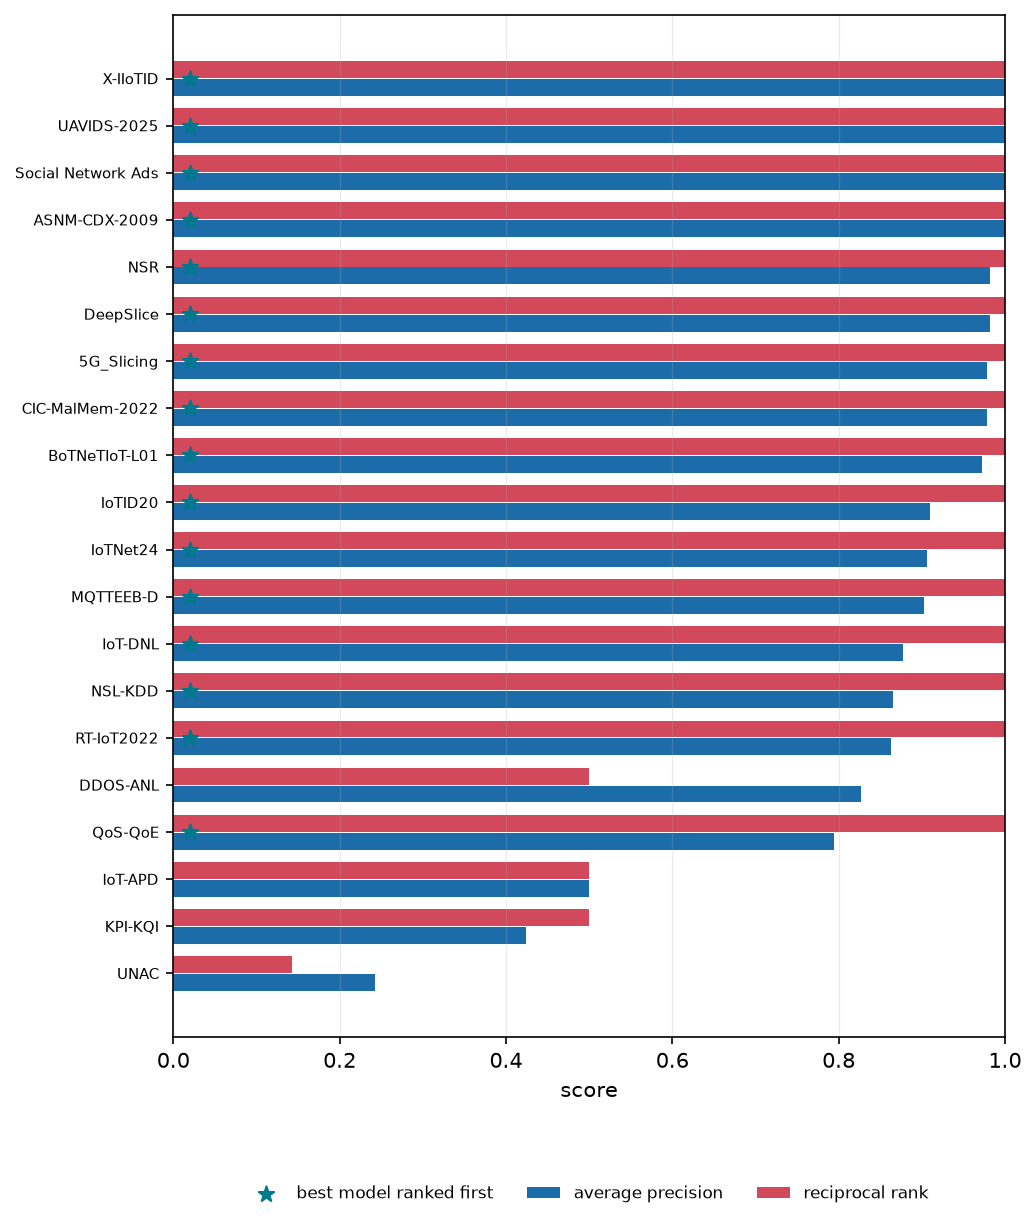
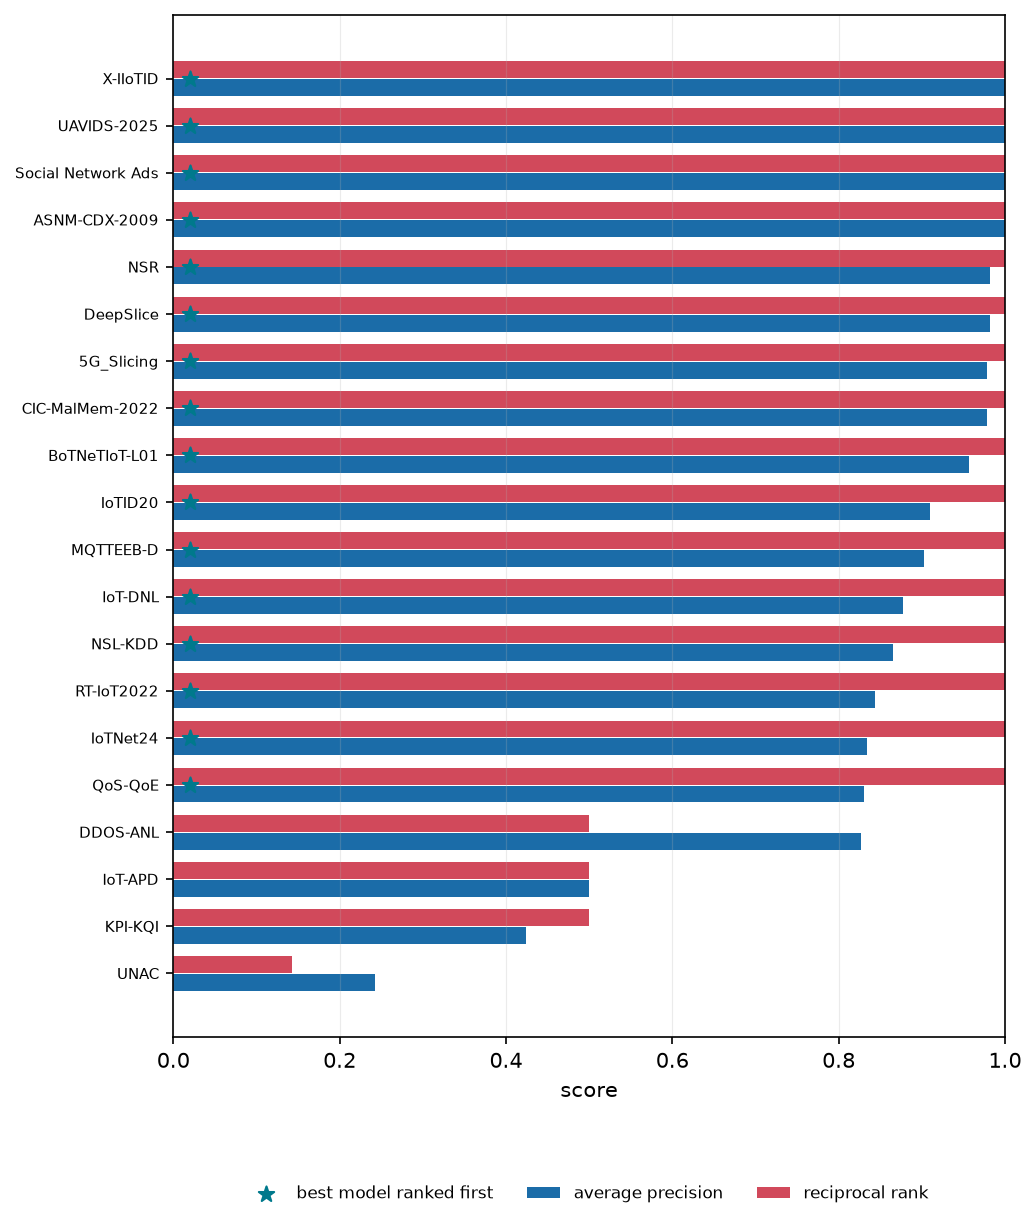
Score the ranking evaluation out of fold, and match protocols across predictors
`model_selection` scored the all-data equation on the rows it was fitted
on, under a docstring asking "can the equation pick a good model for a
dataset it has never seen?". It had seen them. Worse, `ranking_baselines`
compared that in-sample equation against per-model centres computed
leave-one-out, so the equation was given an advantage the baselines were
denied -- and the claim that E3 leads the mean baseline on every
head-weighted metric came off that table.

Both baseline tables now score every predictor under a stated protocol,
and the equation appears under all three, so the cost of generalisation
on these tasks is measured rather than assumed:

  ranking          AP     MRR   hit@1  regret
  in-sample      0.850   0.882   0.80   0.015
  loo-dataset    0.847   0.882   0.80   0.015
  loo-model      0.838   0.907   0.85   0.008

  decision @0.7   acc     F1     MCC
  in-sample      0.872   0.900   0.730
  loo-dataset    0.868   0.897   0.719
  loo-model      0.855   0.886   0.695

The ranking cost is near zero, and structurally so rather than by luck: a
ranking depends only on the within-dataset ordering, and the dataset-side
terms shift every model on a dataset by the same amount, so holding a
dataset out moves the level and not the order. Worth stating, because it
is why ranking is nearly protocol-insensitive while R2 drops 0.658 to
0.638 over the same fold.

Also fixes `_fixed_form_path`, which built its library from all six model
[…]

diff --git a/src/ml_meta_perf/experiment.py b/src/ml_meta_perf/experiment.py
@@ -280,6 +280,7 @@ def _fixed_form_path(
     labels: np.ndarray,
     config: Configuration,
     library: Library | None = None,
+    model_features: tuple[str, ...] = EQUATION_MODEL_FEATURES,
 ) -> tuple[dict[int, CrossValidation], Library]:
     """Fit once, then cross-validate the resulting forms with only their weights refit.
 
@@ -291,7 +292,7 @@ def _fixed_form_path(
     if library is None:
         library = build_library(
             DATASET_FEATURES,
-            MODEL_FEATURES,
+            model_features,
             columns,
             max_arity=config.max_arity,
             max_abs_zscore=config.max_abs_zscore,
@@ -714,40 +715,83 @@ def length_comparison(frame: pl.DataFrame, e3: EquationReport, config: Configura
     return pl.DataFrame(rows)
 
 
-def model_selection(frame: pl.DataFrame, e3: EquationReport) -> pl.DataFrame:
-    """Can the equation pick a good model for a dataset it has never seen?"""
-    columns = columns_as_arrays(frame, DATASET_FEATURES + MODEL_FEATURES)
+def _e3_predictions(
+    frame: pl.DataFrame, e3: EquationReport, protocol: str, config: Configuration
+) -> np.ndarray | None:
+    """E3's predictions under one protocol: ``in_sample``, ``loo_dataset`` or ``loo_model``."""
+    if protocol == "in_sample":
+        columns = columns_as_arrays(frame, DATASET_FEATURES + EQUATION_MODEL_FEATURES)
+        return e3.equation.predict(columns)
+    path = e3.paths.get(protocol)
+    if not path:
+        return None
+    size = min(config.headline_terms, max(path))
+    return path[size].predictions if size in path else None
+
+
+def model_selection(
+    frame: pl.DataFrame,
+    e3: EquationReport,
+    protocol: str = "loo_dataset",
+    config: Configuration = DEFAULT_E3,
+) -> pl.DataFrame:
+    """Can the equation pick a good model for a dataset it has never seen?
+
+    **Scored out of fold, which the question requires.** This used to score the all-data
+    equation on the rows it was fitted on while the baselines it is compared against were
+    computed leave-one-out -- so the equation was being given an advantage they were denied,
+    and the question in this docstring was not the one being answered.
+
+    The cost of generalisation is small here and the reason is structural rather than lucky:
+    a ranking depends only on the *within-dataset* ordering of models, and the dataset-side
+    terms shift every model on a dataset by the same amount. Holding a dataset out moves the
+    level, not the order. `ranking_baselines` reports both protocols side by side so that
+    stays visible rather than assumed.
+    """
     truth = target(frame)
     datasets = groups(frame, DATASET_COLUMN)
-    return ranking_report(truth, e3.equation.predict(columns), datasets)
+    prediction = _e3_predictions(frame, e3, protocol, config)
+    if prediction is None:
+        return pl.DataFrame()
+    return ranking_report(truth, prediction, datasets)
 
 
-def ranking_baselines(frame: pl.DataFrame, e3: EquationReport) -> pl.DataFrame:
+def ranking_baselines(
+    frame: pl.DataFrame, e3: EquationReport, config: Configuration = DEFAULT_E3
+) -> pl.DataFrame:
     """The equation's ranking against the trivial rankings, averaged over datasets.
 
-    A ranking is only interesting relative to the obvious alternative, which here is "order
-    the models by how well they usually do". Both centres are reported for the same reason
-    the error metrics report both: the per-model mean and the per-model median are different
-    orderings, and which is harder to beat is a question rather than an assumption.
+    **Every predictor is scored under the same protocol**, which is what makes the comparison
+    a comparison. The equation appears three times -- in-sample and under both leave-one-group-out
+    protocols -- so the cost of generalisation on this task is visible rather than assumed, and
+    the trivial predictors appear leave-one-dataset-out, which is the only way a per-model
+    centre can be computed honestly.
 
-    Both baselines are computed leave-one-dataset-out, so the model ordering a fold is scored
-    against never saw that fold's rows.
+    Both centres are reported for the same reason the error metrics report both: the per-model
+    mean and the per-model median are different orderings, and which is harder to beat is a
+    question rather than an assumption.
     """
-    columns = columns_as_arrays(frame, DATASET_FEATURES + MODEL_FEATURES)
     truth = target(frame)
     datasets = groups(frame, DATASET_COLUMN)
     models = groups(frame, MODEL_COLUMN)
 
-    candidates = {
-        "equation (E3)": e3.equation.predict(columns),
-        "per-model mean": baseline_group_centre(truth, datasets, models, centre="mean"),
-        "per-model median": baseline_group_centre(truth, datasets, models, centre="median"),
-    }
+    candidates: dict[str, np.ndarray] = {}
+    for label, protocol in (
+        ("equation (in-sample)", "in_sample"),
+        ("equation (loo-dataset)", "loo_dataset"),
+        ("equation (loo-model)", "loo_model"),
+    ):
+        prediction = _e3_predictions(frame, e3, protocol, config)
+        if prediction is not None:
+            candidates[label] = prediction
+    candidates["per-model mean (loo-dataset)"] = baseline_group_centre(truth, datasets, models, centre="mean")
+    candidates["per-model median (loo-dataset)"] = baseline_group_centre(truth, datasets, models, centre="median")
+
     tables = {
         label: ranking_report(truth, prediction, datasets).sort("group")
         for label, prediction in candidates.items()
     }
-    reference = tables["equation (E3)"]
+    reference = tables["equation (loo-dataset)"] if "equation (loo-dataset)" in tables else next(iter(tables.values()))
 
     rows: list[dict[str, object]] = []
     for label, table in tables.items():
@@ -762,10 +806,9 @@ def ranking_baselines(frame: pl.DataFrame, e3: EquationReport) -> pl.DataFrame:
         }
         # The mean over twenty datasets is not the comparison. hit@1 moves only in steps of
         # 0.05 on twenty folds, so a single dataset flipping its top pick shifts it by more
-        # than the gaps being read; and a difference of two means over twenty groups has
-        # already produced three wrong conclusions in this study. The paired test against the
-        # equation is what licenses any claim from this table.
-        if label != "equation (E3)" and "ap" in table.columns:
+        # than the gaps being read. The paired test against the reported equation is what
+        # licenses any claim from this table.
+        if label != "equation (loo-dataset)" and "ap" in table.columns:
             paired = paired_comparison(reference["ap"].to_numpy(), table["ap"].to_numpy())
             row["ap_vs_e3_p"] = paired.p_value
             row["ap_vs_e3_significant"] = paired.significant
@@ -777,28 +820,38 @@ def decision_baselines(
     frame: pl.DataFrame,
     config: Configuration = DEFAULT_E3,
     known: dict[int, CrossValidation] | None = None,
+    e3: EquationReport | None = None,
 ) -> pl.DataFrame:
-    """The above-or-below-threshold decision, for the equation and for both trivial centres.
+    """The above-or-below-threshold decision, for the equation and both trivial centres.
 
-    `decision_report` already carries a majority-class column, which is the floor any rule
-    has to clear. These are the harder comparison: a predictor that answers "how well does
-    this model usually do", thresholded the same way. As with the error metrics, mean and
-    median are different predictors and both are reported.
+    Every predictor under the same protocol, as in `ranking_baselines`, and the equation under
+    all three so the cost of generalisation on the decision is measured rather than assumed.
+    `decision_report` already carries a majority-class column, which is the floor any rule has
+    to clear; these are the harder comparison.
     """
-    columns = columns_as_arrays(frame, DATASET_FEATURES + MODEL_FEATURES)
+    columns = columns_as_arrays(frame, DATASET_FEATURES + EQUATION_MODEL_FEATURES)
     truth = target(frame)
     datasets = groups(frame, DATASET_COLUMN)
     models = groups(frame, MODEL_COLUMN)
 
-    path = known
-    if path is None or config.headline_terms not in path:
-        path, _ = _fixed_form_path(columns, truth, datasets, config)
+    candidates: dict[str, np.ndarray] = {}
+    if e3 is not None:
+        for label, protocol in (
+            ("equation (in-sample)", "in_sample"),
+            ("equation (loo-dataset)", "loo_dataset"),
+            ("equation (loo-model)", "loo_model"),
+        ):
+            prediction = _e3_predictions(frame, e3, protocol, config)
+            if prediction is not None:
+                candidates[label] = prediction
+    else:
+        path = known
+        if path is None or config.headline_terms not in path:
+            path, _ = _fixed_form_path(columns, truth, datasets, config)
+        candidates["equation (loo-dataset)"] = path[config.headline_terms].predictions
+    candidates["per-model mean (loo-dataset)"] = baseline_group_centre(truth, datasets, models, centre="mean")
+    candidates["per-model median (loo-dataset)"] = baseline_group_centre(truth, datasets, models, centre="median")
 
-    candidates = {
-        "equation (E3)": path[config.headline_terms].predictions,
-        "per-model mean": baseline_group_centre(truth, datasets, models, centre="mean"),
-        "per-model median": baseline_group_centre(truth, datasets, models, centre="median"),
-    }
     rows: list[dict[str, object]] = []
     for label, prediction in candidates.items():
         for row in decision_report(truth, prediction, datasets).to_dicts():
@@ -891,10 +944,10 @@ def run(
         baselines=baselines(frame),
         comparison=comparison(frame, e1, e3, e2, e3_capability),
         leakage=leakage_demonstration(frame, config_e3, e3.paths),
-        selection=model_selection(frame, e3),
+        selection=model_selection(frame, e3, "loo_dataset", config_e3),
         decision=decision_quality(frame, config_e3, e3.paths.get("loo_dataset")),
-        ranking_baselines=ranking_baselines(frame, e3),
-        decision_baselines=decision_baselines(frame, config_e3, e3.paths.get("loo_dataset")),
+        ranking_baselines=ranking_baselines(frame, e3, config_e3),
+        decision_baselines=decision_baselines(frame, config_e3, e3.paths.get("loo_dataset"), e3),
         term_choice=recommend(e3.curve, published=len(e3.equation.terms)),
         length_choice=length_comparison(frame, e3, config_e3),
         pareto=pareto_table(e3.curve),

diff --git a/assets/docs/05-evaluation.md b/assets/docs/05-evaluation.md
@@ -414,21 +414,31 @@ R² is the wrong question for a practitioner, who asks whether a model will work
 
 | predictor | threshold | accuracy | majority | precision | recall | mcc | f1 | map | n_positive |
 |---|---|---|---|---|---|---|---|---|---|
-| equation (E3) | 0.5000 | 0.8950 | 0.7668 | 0.9178 | 0.9479 | 0.6967 | 0.9326 | 0.9738 | 365 |
-| equation (E3) | 0.6000 | 0.8887 | 0.7332 | 0.9205 | 0.9284 | 0.7133 | 0.9244 | 0.9763 | 349 |
-| equation (E3) | 0.7000 | 0.8676 | 0.6681 | 0.9381 | 0.8585 | 0.7193 | 0.8966 | 0.9480 | 318 |
-| equation (E3) | 0.8000 | 0.8109 | 0.6261 | 0.9444 | 0.7416 | 0.6471 | 0.8308 | 0.9492 | 298 |
-| equation (E3) | 0.9000 | 0.7584 | 0.5084 | 0.9205 | 0.5744 | 0.5619 | 0.7074 | 0.9123 | 242 |
-| per-model mean | 0.5000 | 0.7395 | 0.7668 | 0.8005 | 0.8795 | 0.1842 | 0.8381 | 0.9788 | 365 |
-| per-model mean | 0.6000 | 0.6828 | 0.7332 | 0.8113 | 0.7393 | 0.2506 | 0.7736 | 0.9567 | 349 |
-| per-model mean | 0.7000 | 0.7227 | 0.6681 | 0.8550 | 0.7044 | 0.4391 | 0.7724 | 0.9645 | 318 |
-| per-model mean | 0.8000 | 0.7122 | 0.6261 | 0.8368 | 0.6711 | 0.4374 | 0.7449 | 0.9332 | 298 |
-| per-model mean | 0.9000 | 0.6450 | 0.5084 | 0.7744 | 0.4256 | 0.3314 | 0.5493 | 0.9408 | 242 |
-| per-model median | 0.5000 | 0.7206 | 0.7668 | 0.7829 | 0.8795 | 0.0950 | 0.8284 | 0.9779 | 365 |
-| per-model median | 0.6000 | 0.7416 | 0.7332 | 0.8038 | 0.8567 | 0.3018 | 0.8294 | 0.9432 | 349 |
-| per-model median | 0.7000 | 0.6933 | 0.6681 | 0.7671 | 0.7767 | 0.3040 | 0.7719 | 0.9636 | 318 |
-| per-model median | 0.8000 | 0.7437 | 0.6261 | 0.8121 | 0.7685 | 0.4635 | 0.7897 | 0.9301 | 298 |
-| per-model median | 0.9000 | 0.6933 | 0.5084 | 0.6967 | 0.7025 | 0.3863 | 0.6996 | 0.9368 | 242 |
+| equation (in-sample) | 0.5000 | 0.8929 | 0.7668 | 0.9153 | 0.9479 | 0.6899 | 0.9314 | 0.9753 | 365 |
+| equation (in-sample) | 0.6000 | 0.8908 | 0.7332 | 0.9231 | 0.9284 | 0.7194 | 0.9257 | 0.9779 | 349 |
+| equation (in-sample) | 0.7000 | 0.8718 | 0.6681 | 0.9446 | 0.8585 | 0.7301 | 0.8995 | 0.9501 | 318 |
+| equation (in-sample) | 0.8000 | 0.8088 | 0.6261 | 0.9442 | 0.7383 | 0.6439 | 0.8286 | 0.9510 | 298 |
+| equation (in-sample) | 0.9000 | 0.7773 | 0.5084 | 0.9533 | 0.5909 | 0.6037 | 0.7296 | 0.9149 | 242 |
+| equation (loo-dataset) | 0.5000 | 0.8950 | 0.7668 | 0.9178 | 0.9479 | 0.6967 | 0.9326 | 0.9738 | 365 |
+| equation (loo-dataset) | 0.6000 | 0.8887 | 0.7332 | 0.9205 | 0.9284 | 0.7133 | 0.9244 | 0.9763 | 349 |
+| equation (loo-dataset) | 0.7000 | 0.8676 | 0.6681 | 0.9381 | 0.8585 | 0.7193 | 0.8966 | 0.9480 | 318 |
+| equation (loo-dataset) | 0.8000 | 0.8109 | 0.6261 | 0.9444 | 0.7416 | 0.6471 | 0.8308 | 0.9492 | 298 |
+| equation (loo-dataset) | 0.9000 | 0.7584 | 0.5084 | 0.9205 | 0.5744 | 0.5619 | 0.7074 | 0.9123 | 242 |
+| equation (loo-model) | 0.5000 | 0.8782 | 0.7668 | 0.9050 | 0.9397 | 0.6460 | 0.9220 | 0.9687 | 365 |
+| equation (loo-model) | 0.6000 | 0.8824 | 0.7332 | 0.9222 | 0.9169 | 0.7008 | 0.9195 | 0.9713 | 349 |
+| equation (loo-model) | 0.7000 | 0.8550 | 0.6681 | 0.9338 | 0.8428 | 0.6954 | 0.8860 | 0.9417 | 318 |
+| equation (loo-model) | 0.8000 | 0.8067 | 0.6261 | 0.9364 | 0.7416 | 0.6361 | 0.8277 | 0.9332 | 298 |
+| equation (loo-model) | 0.9000 | 0.7542 | 0.5084 | 0.9310 | 0.5579 | 0.5595 | 0.6977 | 0.9065 | 242 |
+| per-model mean (loo-dataset) | 0.5000 | 0.7395 | 0.7668 | 0.8005 | 0.8795 | 0.1842 | 0.8381 | 0.9788 | 365 |
+| per-model mean (loo-dataset) | 0.6000 | 0.6828 | 0.7332 | 0.8113 | 0.7393 | 0.2506 | 0.7736 | 0.9567 | 349 |
+| per-model mean (loo-dataset) | 0.7000 | 0.7227 | 0.6681 | 0.8550 | 0.7044 | 0.4391 | 0.7724 | 0.9645 | 318 |
+| per-model mean (loo-dataset) | 0.8000 | 0.7122 | 0.6261 | 0.8368 | 0.6711 | 0.4374 | 0.7449 | 0.9332 | 298 |
+| per-model mean (loo-dataset) | 0.9000 | 0.6450 | 0.5084 | 0.7744 | 0.4256 | 0.3314 | 0.5493 | 0.9408 | 242 |
+| per-model median (loo-dataset) | 0.5000 | 0.7206 | 0.7668 | 0.7829 | 0.8795 | 0.0950 | 0.8284 | 0.9779 | 365 |
+| per-model median (loo-dataset) | 0.6000 | 0.7416 | 0.7332 | 0.8038 | 0.8567 | 0.3018 | 0.8294 | 0.9432 | 349 |
+| per-model median (loo-dataset) | 0.7000 | 0.6933 | 0.6681 | 0.7671 | 0.7767 | 0.3040 | 0.7719 | 0.9636 | 318 |
+| per-model median (loo-dataset) | 0.8000 | 0.7437 | 0.6261 | 0.8121 | 0.7685 | 0.4635 | 0.7897 | 0.9301 | 298 |
+| per-model median (loo-dataset) | 0.9000 | 0.6933 | 0.5084 | 0.6967 | 0.7025 | 0.3863 | 0.6996 | 0.9368 | 242 |
 
 Ranking models within a held-out dataset:
 
@@ -436,11 +446,13 @@ Ranking models within a held-out dataset:
 
 | predictor | ap | mrr | hit_at_1 | regret | datasets | ap_vs_e3_p | ap_vs_e3_significant |
 |---|---|---|---|---|---|---|---|
-| equation (E3) | 0.8502 | 0.8821 | 0.8000 | 0.0145 | 20 |  |  |
-| per-model mean | 0.7980 | 0.8350 | 0.7500 | 0.0111 | 20 | 0.2101 | no |
-| per-model median | 0.8375 | 0.8850 | 0.8500 | 0.0088 | 20 | 0.1435 | no |
+| equation (in-sample) | 0.8502 | 0.8821 | 0.8000 | 0.0145 | 20 | 0.6250 | no |
+| equation (loo-dataset) | 0.8467 | 0.8821 | 0.8000 | 0.0145 | 20 |  |  |
+| equation (loo-model) | 0.8382 | 0.9071 | 0.8500 | 0.0078 | 20 | 0.2266 | no |
+| per-model mean (loo-dataset) | 0.7980 | 0.8350 | 0.7500 | 0.0111 | 20 | 0.2101 | no |
+| per-model median (loo-dataset) | 0.8375 | 0.8850 | 0.8500 | 0.0088 | 20 | 0.1435 | no |
 
-**None of these differences survives a paired test.** Against per-model mean, per-model median the sign test and the bootstrap interval over datasets both include zero, so on ranking the equation is indistinguishable from ordering the models by how well they usually do. Read the means in the table above as ties, not as a ranking of the predictors — including where a baseline's mean is the larger one.
+**None of these differences survives a paired test.** Against equation (in-sample), equation (loo-model), per-model mean (loo-dataset), per-model median (loo-dataset) the sign test and the bootstrap interval over datasets both include zero, so on ranking the equation is indistinguishable from ordering the models by how well they usually do. Read the means in the table above as ties, not as a ranking of the predictors — including where a baseline's mean is the larger one.
 
 ## What bounds the result
 
@@ -476,7 +488,7 @@ Validation protocol, same equation, different splits:
 
 | protocol | r2 | mae | rmse | smape | spearman | n |
 |---|---|---|---|---|---|---|
-| random 10-fold (leaky) | 0.6378 | 0.1424 | 0.2065 | 34.9614 | 0.8052 | 476 |
+| random 10-fold (leaky) | 0.6388 | 0.1412 | 0.2063 | 35.1309 | 0.8115 | 476 |
 | leave-one-dataset-out | 0.6381 | 0.1417 | 0.2064 | 34.8803 | 0.8095 | 476 |
 | leave-one-model-out | 0.6218 | 0.1449 | 0.2110 | 35.4201 | 0.8072 | 476 |
 

diff --git a/assets/docs/06-practices.md b/assets/docs/06-practices.md
@@ -368,7 +368,7 @@ A best practice is general, transferable advice that already circulates in the f
 
 #### 4. When rows share a group -- a subject, a site, a dataset -- validate by holding out whole groups. A random split reports a number that will not survive deployment.
 
-**Verdict: qualified.** The same equation scores R² 0.638 under a random 10-fold split and 0.638 when whole datasets are held out -- -0.000 of pure protocol. Dataset meta-features are constant within a dataset, so a random fold shows the equation rows from a dataset it is being scored on.
+**Verdict: qualified.** The same equation scores R² 0.639 under a random 10-fold split and 0.638 when whole datasets are held out -- 0.001 of pure protocol. Dataset meta-features are constant within a dataset, so a random fold shows the equation rows from a dataset it is being scored on.
 
 *Practice from:* Walsh et al., 'Machine learning reporting standards', Nature Methods 18 (2021). Any feature constant within a group lets the model recognise the group rather than generalise to it, and a random split puts the group on both sides.
 
@@ -392,7 +392,7 @@ A best practice is general, transferable advice that already circulates in the f
 
 #### 8. Before adopting a meta-learner to choose models, check it against 'use whatever usually works'. Ranking is an easier problem than prediction and often needs less.
 
-**Verdict: qualified.** Tested against this study's own equation and the two cannot be separated -- which is the practice being right, since it claims the trivial baseline is competitive rather than that it wins. Ranking models within a held-out dataset, against the per-model-mean baseline -- ap 0.850 against 0.798, equation better on 5 of 16 datasets that differ, 95% CI [-0.050, +0.180]; mrr 0.882 against 0.835, equation better on 3 of 6 datasets that differ, 95% CI [-0.076, +0.185]; hit_at_1 0.800 against 0.750, equation better on 3 of 5 datasets that differ, 95% CI [-0.150, +0.250]; regret 0.015 against 0.011, equation better on 12 of 17 datasets that differ, 95% CI [-0.021, +0.010]. Every interval is a paired bootstrap over the twenty held-out datasets, because a difference of two means over twenty folds is not yet a measurement.
+**Verdict: qualified.** Tested against this study's own equation and the two cannot be separated -- which is the practice being right, since it claims the trivial baseline is competitive rather than that it wins. Ranking models within a held-out dataset, against the per-model-mean baseline -- ap 0.847 against 0.798, equation better on 5 of 16 datasets that differ, 95% CI [-0.055, +0.177]; mrr 0.882 against 0.835, equation better on 3 of 6 datasets that differ, 95% CI [-0.076, +0.185]; hit_at_1 0.800 against 0.750, equation better on 3 of 5 datasets that differ, 95% CI [-0.150, +0.250]; regret 0.015 against 0.011, equation better on 12 of 17 datasets that differ, 95% CI [-0.021, +0.010]. Every interval is a paired bootstrap over the twenty held-out datasets, because a difference of two means over twenty folds is not yet a measurement.
 
 *Practice from:* Rice, 'The Algorithm Selection Problem' (1976); standard meta-learning practice. A per-model mean over previous datasets carries most of the ranking signal at zero modelling cost, and is the baseline any selection method has to clear.
 
@@ -416,11 +416,11 @@ At a glance:
 | Characterise the dataset before choosing a model. What the data is like bounds what any model can reach, and that bound is usually the larger effect. | supported | 0.0718 |
 | On tabular data, start from tree ensembles. Reach for a neural architecture only when a tree ensemble has been tried and found wanting. | supported | 0.2675 |
 | Include a pretrained tabular model (TabPFN, TabICL) in the first round of candidates: it costs one fit and is frequently competitive with a tuned ensemble. | supported | 0.0028 |
-| When rows share a group -- a subject, a site, a dataset -- validate by holding out whole groups. A random split reports a number that will not survive deployment. | qualified | -0.0003 |
+| When rows share a group -- a subject, a site, a dataset -- validate by holding out whole groups. A random split reports a number that will not survive deployment. | qualified | 0.0007 |
 | Spend the first effort on reducing noise in the data, not on a larger model. Noise sets a ceiling that capacity cannot lift. | not tested |  |
 | On real-world data that has not been carefully curated, prefer a learner with built-in robustness to outliers. | not tested |  |
 | Match capacity to the problem. A larger, more expensive model is not a safer default; on small tabular problems it is usually a worse one. | supported | -0.4727 |
-| Before adopting a meta-learner to choose models, check it against 'use whatever usually works'. Ranking is an easier problem than prediction and often needs less. | qualified | 0.0522 |
+| Before adopting a meta-learner to choose models, check it against 'use whatever usually works'. Ranking is an easier problem than prediction and often needs less. | qualified | 0.0487 |
 | Report which (dataset, model) runs were excluded and why. Aggregate comparisons over an incomplete grid compare different models on different problems. | supported | 0.0480 |
 | Score imbalanced classification with a metric that accounts for all four confusion-matrix cells -- MCC rather than accuracy or F1. | not tested | 0.0315 |
 
